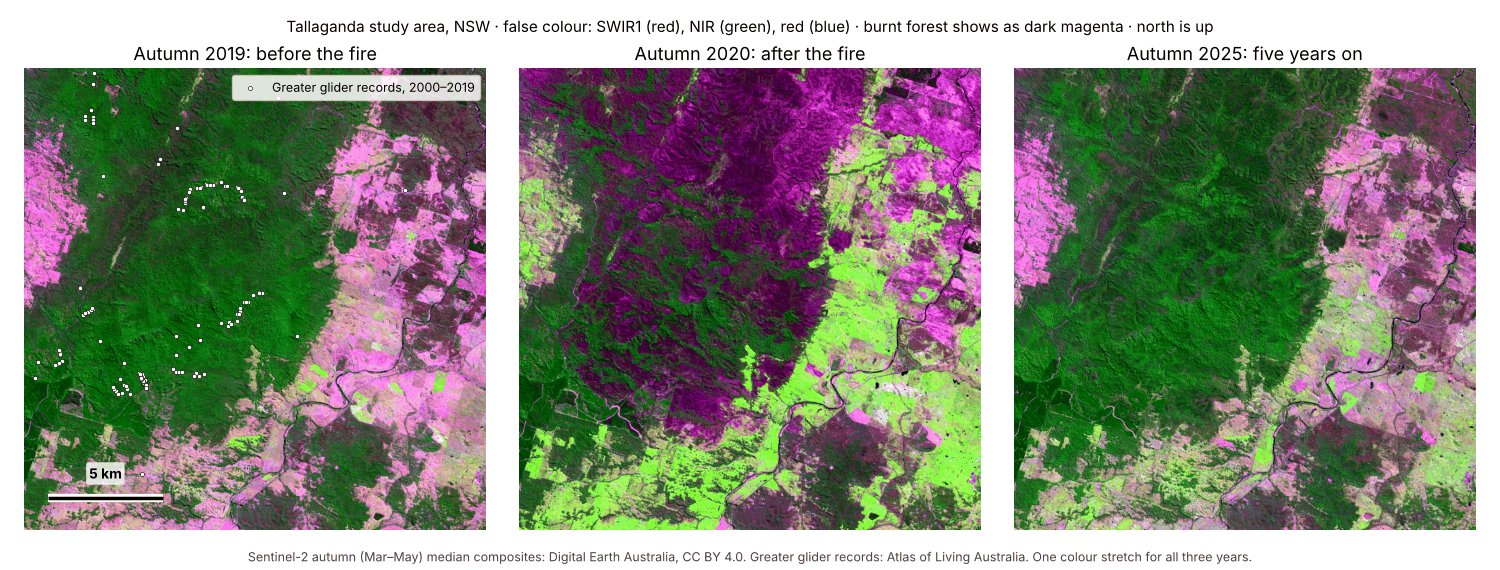
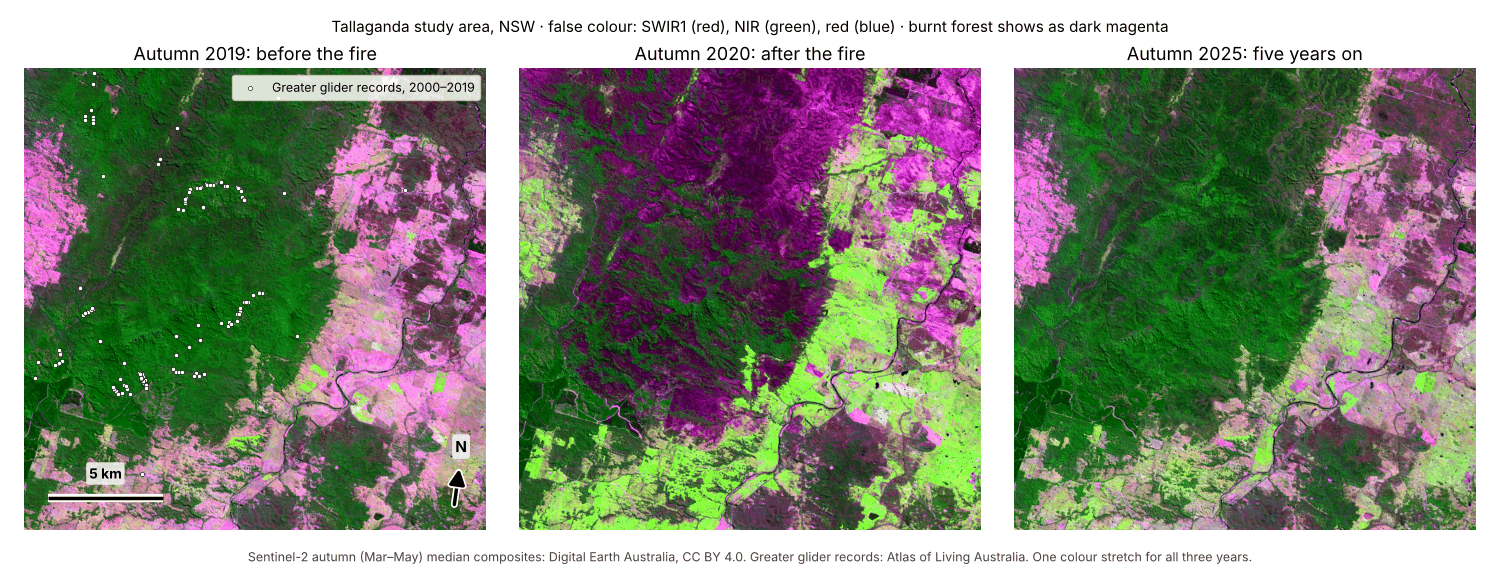
Use a north arrow on the example maps instead of "north is up"
The three example figures now have a north arrow (with "N") next to the
scale bar, and "north is up" is gone from their titles. The arrow points
to true north, which is about 8 degrees clockwise of straight up here:
the maps use GDA94 / Australian Albers (EPSG:3577), where grid north and
true north only match along 132 deg E. The script works the angle out
from the data. CLAUDE.md now asks for a scale bar and a north arrow
(pointing to true north) on maps, instead of "keep north up".

Claude-Session: https://claude.ai/code/session_017xgeT5M5EF4taeFyvTiVvy

Changed region(s): [[0.184, 0.0298, 0.828, 0.0596], [0.276, 0.8351, 0.3373, 0.8947], [0.276, 0.7456, 0.3373, 0.8053]]

diff --git a/presenters/make_examples.py b/presenters/make_examples.py
@@ -24,6 +24,7 @@ matplotlib.use("Agg")
 import matplotlib.pyplot as plt  # noqa: E402
 import numpy as np  # noqa: E402
 import rasterio  # noqa: E402
+from matplotlib import patheffects  # noqa: E402
 from matplotlib.colors import BoundaryNorm, ListedColormap  # noqa: E402
 from matplotlib.lines import Line2D  # noqa: E402
 from matplotlib.patches import Patch  # noqa: E402
@@ -104,12 +105,55 @@ def add_scale_bar(ax: plt.Axes, n_rows: int, km: int = 5) -> None:
     )
 
 
+def true_north_angle() -> float:
+    """Degrees clockwise from the top of the map to true north, at the study-area centre.
+
+    The rasters use GDA94 / Australian Albers (EPSG:3577), so true north is only straight up
+    along 132 deg E. Here it's about 8 deg clockwise of straight up.
+    """
+    with rasterio.open(DATA / "fire_severity_2019_20.tif") as ds:
+        left, bottom, right, top = ds.bounds
+        crs = ds.crs
+    lon, lat = warp_transform(crs, "EPSG:4326", [(left + right) / 2], [(bottom + top) / 2])
+    xs, ys = warp_transform("EPSG:4326", crs, [lon[0], lon[0]], [lat[0], lat[0] + 0.01])
+    return float(np.degrees(np.arctan2(xs[1] - xs[0], ys[1] - ys[0])))
+
+
+def add_north_arrow(ax: plt.Axes, n_rows: int, angle: float) -> None:
+    """Draw a north arrow pointing to true north in the lower-right corner of a panel."""
+    length = 0.09 * n_rows
+    x0, y0 = 0.93 * n_rows, 0.95 * n_rows  # tail of the arrow (image rows grow downwards)
+    dx, dy = length * np.sin(np.radians(angle)), -length * np.cos(np.radians(angle))
+    ax.annotate(
+        "",
+        xy=(x0 + dx, y0 + dy),
+        xytext=(x0, y0),
+        arrowprops={
+            "arrowstyle": "-|>,head_width=0.45,head_length=0.9",
+            "color": "black",
+            "lw": 2.5,
+            "path_effects": [patheffects.withStroke(linewidth=5, foreground="white")],
+        },
+    )
+    ax.text(
+        x0 + 1.25 * dx,
+        y0 + 1.25 * dy,
+        "N",
+        color="black",
+        ha="center",
+        va="bottom",
+        fontsize=11,
+        fontweight="bold",
+        bbox={"boxstyle": "round,pad=0.2", "facecolor": "white", "alpha": 0.8, "lw": 0},
+    )
+
+
 def caption(fig: plt.Figure, text: str) -> None:
     """Put a one-line source caption under the figure."""
     fig.text(0.5, 0.01, text, ha="center", va="bottom", fontsize=9, color="#444444", wrap=True)
 
 
-def before_after(refl: dict[int, np.ndarray], gliders: tuple[np.ndarray, ...]) -> Path:
+def before_after(refl: dict[int, np.ndarray], gliders: tuple[np.ndarray, ...], north: float) -> Path:
     """Three false-colour panels with one shared 2-98 % stretch per band."""
     rgb = {y: np.stack([r[2], r[1], r[0]], axis=-1) for y, r in refl.items()}  # SWIR1, NIR, red
     stacked = np.concatenate([v.reshape(-1, 3) for v in rgb.values()])
@@ -137,9 +181,10 @@ def before_after(refl: dict[int, np.ndarray], gliders: tuple[np.ndarray, ...]) -
     )
     axes[0].legend(loc="upper right", fontsize=9, framealpha=0.85)
     add_scale_bar(axes[0], refl[2019].shape[1])
+    add_north_arrow(axes[0], refl[2019].shape[1], north)
     fig.suptitle(
         "Tallaganda study area, NSW · false colour: SWIR1 (red), NIR (green), red (blue)"
-        " · burnt forest shows as dark magenta · north is up",
+        " · burnt forest shows as dark magenta",
         fontsize=11,
         y=0.97,
     )
@@ -148,7 +193,7 @@ def before_after(refl: dict[int, np.ndarray], gliders: tuple[np.ndarray, ...]) -
     return save(fig, "before_after.png")
 
 
-def ndvi_change(refl: dict[int, np.ndarray]) -> Path:
+def ndvi_change(refl: dict[int, np.ndarray], north: float) -> Path:
     """Two NDVI-change panels on one diverging scale centred on zero."""
     v = {y: ndvi(r) for y, r in refl.items()}
     panels = {"2019 → 2020: the fire": v[2020] - v[2019], "2020 → 2025: recovery": v[2025] - v[2020]}
@@ -159,15 +204,16 @@ def ndvi_change(refl: dict[int, np.ndarray]) -> Path:
         ax.set_title(title, fontsize=13)
         ax.set_axis_off()
     add_scale_bar(axes[0], v[2019].shape[1])
+    add_north_arrow(axes[0], v[2019].shape[1], north)
     cbar = fig.colorbar(im, ax=axes, orientation="horizontal", fraction=0.05, pad=0.03, aspect=45)
     cbar.set_label("Change in NDVI (no units): brown = less green, green = greener", fontsize=11)
-    fig.suptitle("Tallaganda study area, NSW · change in greenness (NDVI) · north is up", fontsize=12, y=0.98)
+    fig.suptitle("Tallaganda study area, NSW · change in greenness (NDVI)", fontsize=12, y=0.98)
     caption(fig, S2_SOURCE)
     fig.subplots_adjust(left=0.01, right=0.99, top=0.9, bottom=0.24, wspace=0.03)
     return save(fig, "ndvi_change.png")
 
 
-def severity_map(gliders: tuple[np.ndarray, ...]) -> Path:
+def severity_map(gliders: tuple[np.ndarray, ...], north: float) -> Path:
     """Fire-severity classes with the glider records on top: a still view of glider_map.html."""
     with rasterio.open(DATA / "fire_severity_2019_20.tif") as ds:
         fesm = ds.read(1)[::STEP, ::STEP]
@@ -185,6 +231,7 @@ def severity_map(gliders: tuple[np.ndarray, ...]) -> Path:
     ax.scatter(cols[post], rws[post], s=20, marker="^", c=BLUISH_GREEN, edgecolors="black", linewidths=0.5)
     ax.set_axis_off()
     add_scale_bar(ax, fesm.shape[1])
+    add_north_arrow(ax, fesm.shape[1], north)
     handles = [Patch(facecolor=c, edgecolor="#888888", label=lab) for lab, c in SEVERITY.values()]
     handles += [
         Line2D(
@@ -215,9 +262,7 @@ def severity_map(gliders: tuple[np.ndarray, ...]) -> Path:
         title_fontsize=11,
         frameon=False,
     )
-    ax.set_title(
-        "Tallaganda study area, NSW · fire severity and greater glider records · north is up", fontsize=12
-    )
+    ax.set_title("Tallaganda study area, NSW · fire severity and greater glider records", fontsize=12)
     caption(fig, f"{FESM_SOURCE} {ALA_SOURCE}")
     fig.subplots_adjust(left=0.01, right=0.70, top=0.93, bottom=0.06)
     return save(fig, "fire_severity_and_gliders.png")
@@ -248,7 +293,9 @@ def main() -> None:
         f"glider records: {len(gliders[2])}, of which 2000–2019: "
         f"{int(((gliders[2] >= 2000) & (gliders[2] <= 2019)).sum())}"
     )
-    for path in (before_after(refl, gliders), ndvi_change(refl), severity_map(gliders)):
+    north = true_north_angle()
+    print(f"true north: {north:.1f} degrees clockwise of straight up")
+    for path in (before_after(refl, gliders, north), ndvi_change(refl, north), severity_map(gliders, north)):
         print(f"wrote {path.relative_to(ROOT)} ({path.stat().st_size / 1024:.0f} KB)")
 
 

diff --git a/CLAUDE.md b/CLAUDE.md
@@ -34,7 +34,7 @@ projection.
   numbers that show the units and ranges are sensible (reflectance 0–1, NDVI −1 to 1). Run the tests.
 - Figures: use colour-blind-safe palettes (viridis or cividis for one variable, a diverging palette
   centred on zero for change, Okabe–Ito colours for categories). Label units, put the year on every
-  panel, keep north up.
+  panel, and give maps a scale bar and a north arrow (pointing to true north).
 - Do area calculations on the rasters' own grid (EPSG:3577, 10 m pixels): one pixel = 0.01 ha.
 - Git: commit each step once it works, with a clear message, then push.
 
